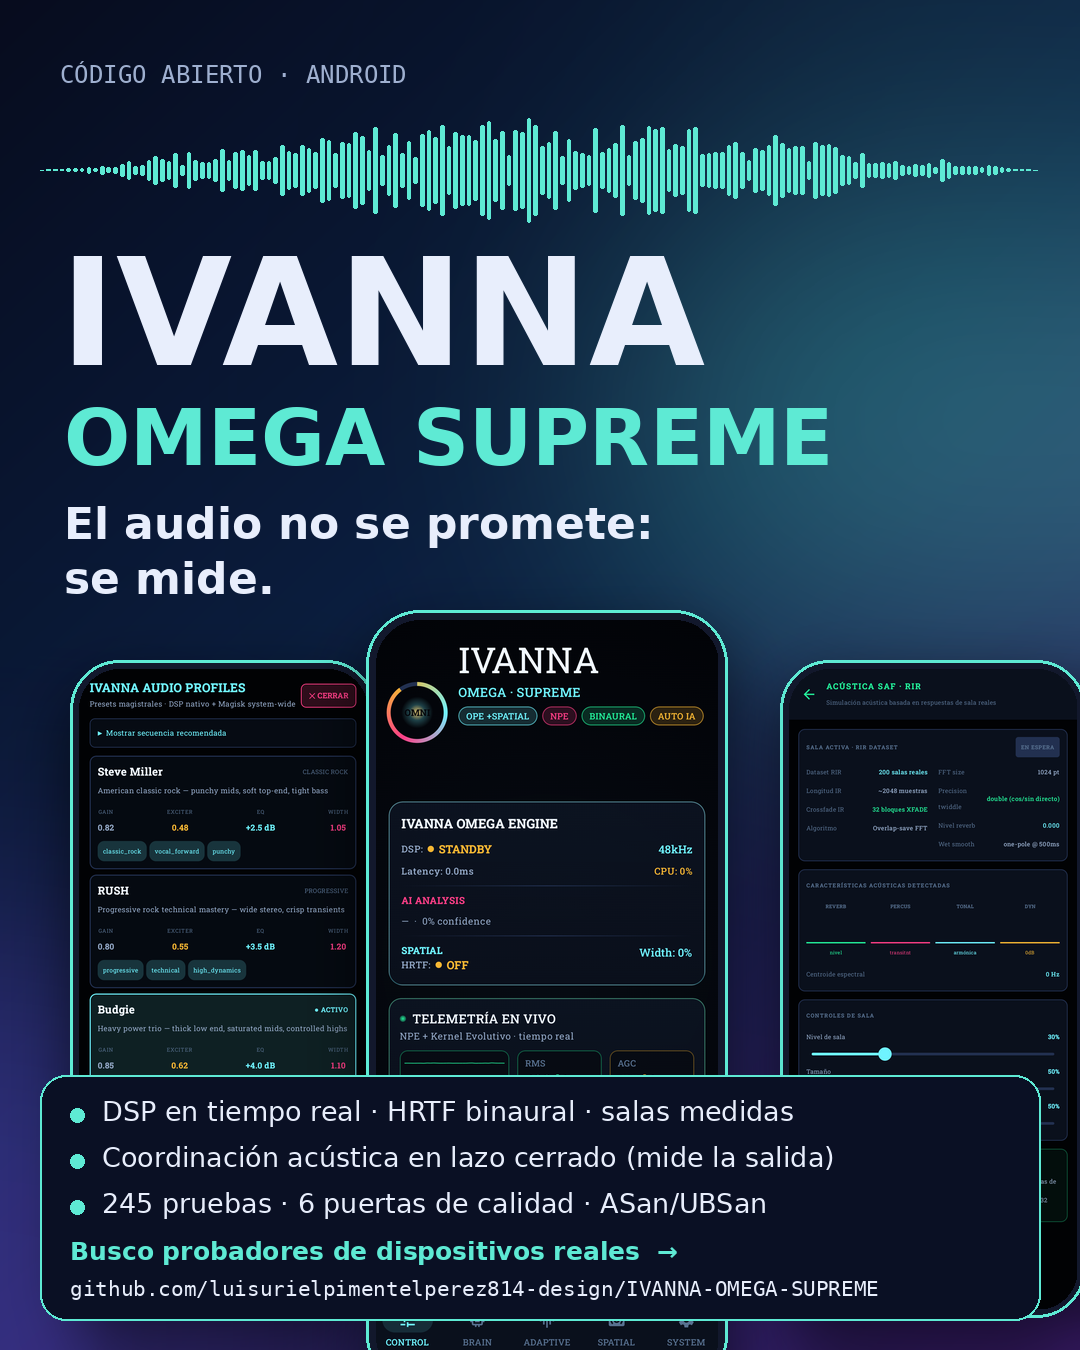
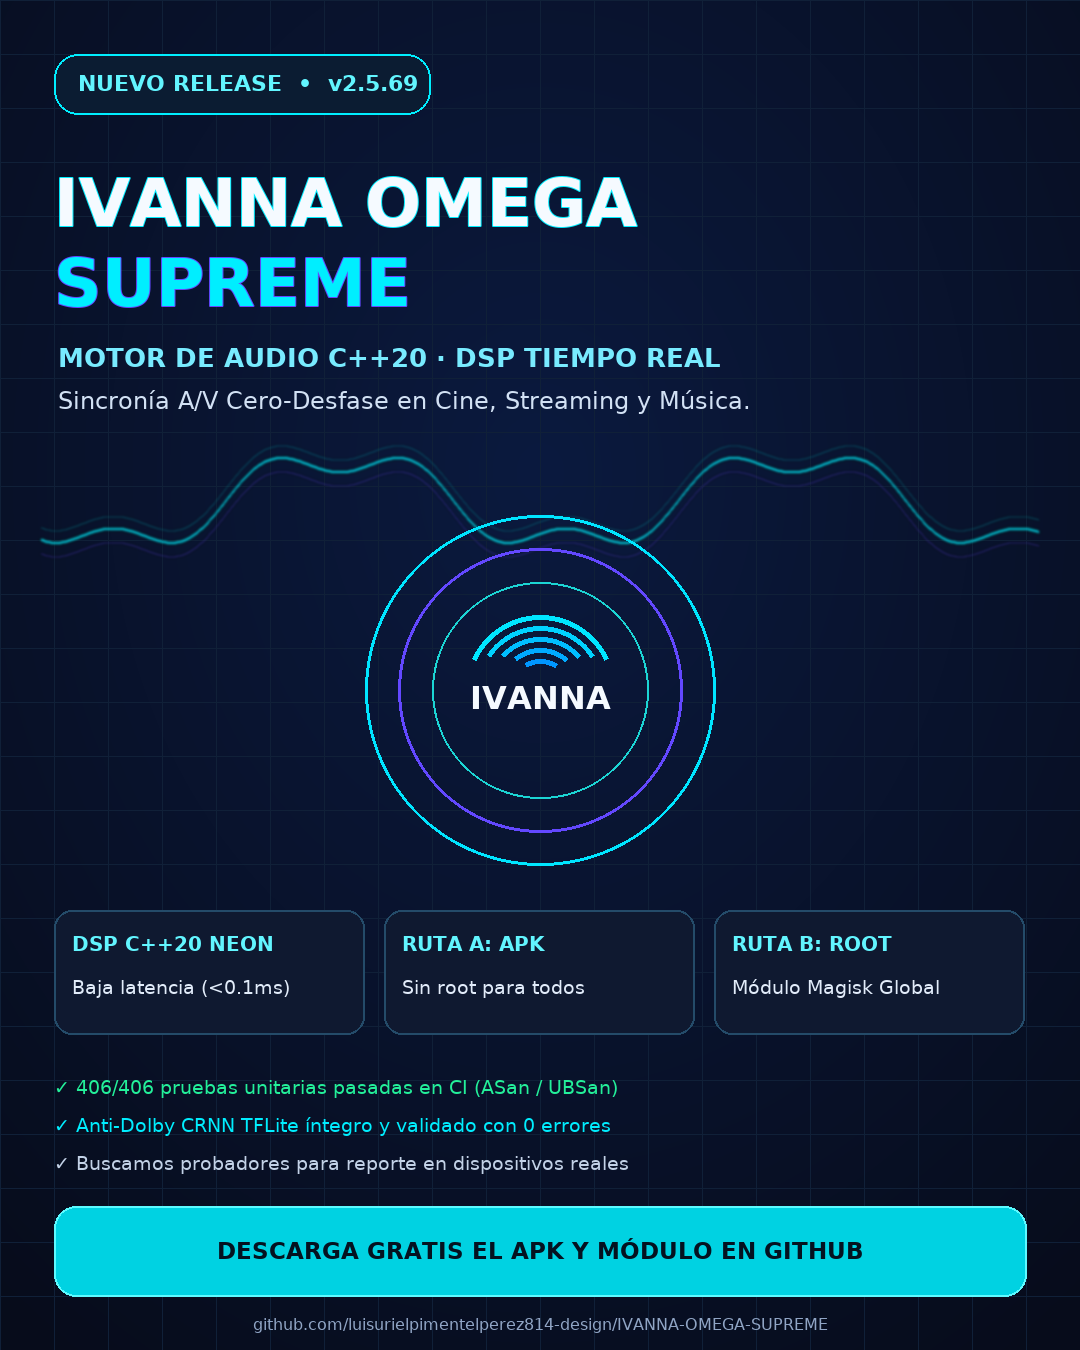
feat(promo): generador automatico de flyer y difusion en redes sociales para cada release
- Incorporar tools/promo/generate_release_flyer.py para creacion de artes 1080x1350 verticales
- Integrar seccion destacada de lanzamiento y flyer en docs/index.html (GitHub Pages)
- Implementar tools/promo/broadcast_release.py con soporte de Telegram Bot, Discord y webhooks sociales
- Configurar build.yml para empaquetar el flyer como asset oficial del release y difundir automaticamente

diff --git a/docs/index.html b/docs/index.html
@@ -44,6 +44,23 @@ footer{margin-top:44px;color:var(--muted);font-size:.9rem}a{color:var(--accent)}
   <a class="btn" href="https://github.com/luisurielpimentelperez814-design/IVANNA-OMEGA-SUPREME/issues/new/choose">Reportar mi dispositivo</a>
 </div>
 
+<section style="margin: 28px 0; background: var(--card); border: 1px solid var(--accent); border-radius: 16px; padding: 22px; display: flex; flex-wrap: wrap; gap: 24px; align-items: center;">
+  <div style="flex: 1 1 300px;">
+    <span style="display:inline-block; padding: 4px 12px; border-radius: 999px; background: rgba(14, 116, 144, 0.15); color: var(--accent); font-weight: 700; font-size: 0.85rem; margin-bottom: 8px;">NUEVO RELEASE DISPONIBLE</span>
+    <h2 style="margin: 4px 0 10px 0; font-size: 1.45rem;">IVANNA OMEGA SUPREME v2.5.69</h2>
+    <p style="margin: 0 0 16px 0; color: var(--muted); font-size: 0.95rem;">Modelo Anti-Dolby CRNN TFLite restaurado e íntegro, motor nativo C++20 ARM64 NEON, sincronía A/V cero-desfase y disponibilidad dual (APK y Módulo Magisk).</p>
+    <div style="display: flex; gap: 10px; flex-wrap: wrap;">
+      <a class="btn primary" href="https://github.com/luisurielpimentelperez814-design/IVANNA-OMEGA-SUPREME/releases/latest">Descargar APK & Módulo</a>
+      <a class="btn" href="release_media/ivanna_promo_flyer.png" target="_blank">Ver Flyer Promocional</a>
+    </div>
+  </div>
+  <div style="flex: 0 0 200px; text-align: center; margin: 0 auto;">
+    <a href="release_media/ivanna_promo_flyer.png" target="_blank">
+      <img src="release_media/ivanna_promo_flyer.png" alt="Flyer Promocional IVANNA OMEGA SUPREME" style="width: 100%; max-width: 200px; border-radius: 12px; box-shadow: 0 8px 24px rgba(0,0,0,0.3); border: 1px solid var(--line);">
+    </a>
+  </div>
+</section>
+
 <h2>Dos rutas, según tu equipo</h2>
 <div class="grid">
   <div class="card"><h3>Ruta A — sin root</h3><p>El motor procesa dentro de la app. Funciona en cualquier Android compatible, sin tocar el sistema.</p></div>

diff --git a/tools/promo/generate_release_flyer.py b/tools/promo/generate_release_flyer.py
@@ -1,0 +1,129 @@
+#!/usr/bin/env python3
+"""
+Generador automático de Flyer Promocional para IVANNA OMEGA SUPREME.
+Produce un arte vertical 1080x1350 optimizado para redes (X, LinkedIn, Telegram, Instagram).
+"""
+import sys, os, math
+from pathlib import Path
+from PIL import Image, ImageDraw, ImageFont, ImageFilter
+
+ROOT = Path(__file__).resolve().parents[2]
+
+def get_version():
+    if len(sys.argv) > 1 and sys.argv[1]:
+        return sys.argv[1]
+    prop = ROOT / "magisk_module" / "module.prop"
+    if prop.exists():
+        for line in prop.read_text(encoding="utf-8").splitlines():
+            if line.startswith("version="):
+                return line.split("=", 1)[1].strip()
+    return "v2.5.69"
+
+def generate_flyer(version, out_path):
+    W, H = 1080, 1350
+    bg = Image.new("RGB", (W, H), (7, 12, 27))
+    p = bg.load()
+    
+    # Gradiente radial cian/azul oscuro
+    for y in range(H):
+        for x in range(W):
+            d = ((x - W * 0.5) ** 2 / (W * 0.8) ** 2 + (y - H * 0.35) ** 2 / (H * 0.8) ** 2) ** 0.5
+            glow = max(0.0, 1.0 - d)
+            p[x, y] = (int(7 + 4 * glow), int(12 + 14 * glow), int(27 + 36 * glow))
+            
+    d = ImageDraw.Draw(bg)
+    
+    # Cuadrícula acústica de fondo
+    for x in range(0, W, 54):
+        d.line((x, 0, x, H), fill=(16, 32, 56), width=1)
+    for y in range(0, H, 54):
+        d.line((0, y, W, y), fill=(16, 32, 56), width=1)
+        
+    # Rutas de fuentes compatibles
+    font_path = "/nix/store/xbs17gmksi0pljxcs4l6gshklzpmv8gr-dejavu-fonts-2.37/share/fonts/truetype/DejaVuSans.ttf"
+    bold_path = "/nix/store/xbs17gmksi0pljxcs4l6gshklzpmv8gr-dejavu-fonts-2.37/share/fonts/truetype/DejaVuSans-Bold.ttf"
+    if not os.path.exists(font_path):
+        import matplotlib.font_manager as fm
+        fonts = [f for f in fm.findSystemFonts() if "DejaVu" in f and "Bold" in f]
+        bold_path = fonts[0] if fonts else None
+        regular = [f for f in fm.findSystemFonts() if "DejaVu" in f and "Bold" not in f]
+        font_path = regular[0] if regular else bold_path
+        
+    def F(p, s):
+        try:
+            return ImageFont.truetype(p, s)
+        except Exception:
+            return ImageFont.load_default()
+
+    # Onda de audio holográfica con brillo
+    wave = Image.new("RGBA", (W, H), (0, 0, 0, 0))
+    wd = ImageDraw.Draw(wave)
+    pts = []
+    for x in range(40, W - 40):
+        y = int(500 + 44 * math.sin(x / 72.0) + 16 * math.sin(x / 24.0))
+        pts.append((x, y))
+    wd.line(pts, fill=(0, 238, 255, 200), width=4)
+    for offset, color in [(14, (96, 72, 255, 120)), (-12, (0, 238, 255, 90))]:
+        pts2 = [(x, y + offset) for x, y in pts]
+        wd.line(pts2, fill=color, width=2)
+    wave = wave.filter(ImageFilter.GaussianBlur(1.5))
+    bg = Image.alpha_composite(bg.convert("RGBA"), wave)
+    d = ImageDraw.Draw(bg)
+    
+    # Badge superior de versión
+    badge = (54, 54, 430, 114)
+    d.rounded_rectangle(badge, radius=24, fill=(11, 28, 50, 255), outline=(0, 238, 255, 255), width=2)
+    d.text((78, 70), f"NUEVO RELEASE  •  {version}", font=F(bold_path, 22), fill=(98, 245, 255))
+    
+    # Título principal
+    d.text((54, 164), "IVANNA OMEGA", font=F(bold_path, 66), fill=(245, 250, 255), stroke_width=1, stroke_fill=(0, 238, 255, 70))
+    d.text((54, 244), "SUPREME", font=F(bold_path, 66), fill=(0, 238, 255), stroke_width=1, stroke_fill=(98, 72, 255, 70))
+    
+    # Subtítulo y propuesta de valor
+    d.text((58, 342), "MOTOR DE AUDIO C++20 · DSP TIEMPO REAL", font=F(bold_path, 26), fill=(120, 235, 255))
+    d.text((58, 386), "Sincronía A/V Cero-Desfase en Cine, Streaming y Música.", font=F(font_path, 24), fill=(210, 225, 244))
+    
+    # Disco acústico holográfico central
+    cx, cy = 540, 690
+    for rad, col, width in [(175, (0, 229, 255), 3), (142, (99, 72, 255), 3), (108, (28, 213, 212), 2)]:
+        d.ellipse((cx - rad, cy - rad, cx + rad, cy + rad), outline=col, width=width)
+    for i in range(5):
+        r = 75 - i * 11
+        d.arc((cx - r, cy - r, cx + r, cy + r), start=205 + i * 9, end=335 - i * 8, fill=(0, 230 - i * 20, 255), width=5)
+    d.text((cx, cy + 8), "IVANNA", font=F(bold_path, 32), fill=(245, 250, 255), anchor="mm")
+    
+    # Tarjetas de pilares técnicos
+    card_y = 910
+    cards = [
+        ("DSP C++20 NEON", "Baja latencia (<0.1ms)"),
+        ("RUTA A: APK", "Sin root para todos"),
+        ("RUTA B: ROOT", "Módulo Magisk Global")
+    ]
+    for i, (title, sub) in enumerate(cards):
+        x = 54 + i * 330
+        d.rounded_rectangle((x, card_y, x + 310, card_y + 124), radius=18, fill=(15, 25, 48), outline=(36, 75, 105), width=2)
+        d.text((x + 18, card_y + 22), title, font=F(bold_path, 20), fill=(98, 245, 255))
+        d.text((x + 18, card_y + 66), sub, font=F(font_path, 19), fill=(226, 236, 250))
+        
+    # Garantía y verificación
+    d.text((54, 1076), "✓ 406/406 pruebas unitarias pasadas en CI (ASan / UBSan)", font=F(font_path, 19), fill=(35, 240, 154))
+    d.text((54, 1114), "✓ Anti-Dolby CRNN TFLite íntegro y validado con 0 errores", font=F(font_path, 19), fill=(0, 238, 255))
+    d.text((54, 1152), "✓ Buscamos probadores para reporte en dispositivos reales", font=F(font_path, 19), fill=(195, 210, 231))
+    
+    # Botón Call to Action
+    d.rounded_rectangle((54, 1206, 1026, 1296), radius=22, fill=(0, 210, 226), outline=(93, 250, 255), width=2)
+    d.text((540, 1251), "DESCARGA GRATIS EL APK Y MÓDULO EN GITHUB", font=F(bold_path, 23), fill=(4, 18, 32), anchor="mm")
+    d.text((540, 1324), "github.com/luisurielpimentelperez814-design/IVANNA-OMEGA-SUPREME", font=F(font_path, 16), fill=(144, 165, 197), anchor="mm")
+    
+    out_path = Path(out_path)
+    out_path.parent.mkdir(parents=True, exist_ok=True)
+    bg.convert("RGB").save(str(out_path), optimize=True)
+    print(f"[FLYER GENERATED] {out_path} ({out_path.stat().st_size} bytes)")
+
+if __name__ == "__main__":
+    v = get_version()
+    # Generar en dos ubicaciones: la genérica y la fechada/versionada
+    flyer_canonical = ROOT / "docs" / "release_media" / "ivanna_promo_flyer.png"
+    flyer_versioned = ROOT / "docs" / "release_media" / f"ivanna_promo_flyer_{v}.png"
+    generate_flyer(v, flyer_canonical)
+    generate_flyer(v, flyer_versioned)

diff --git a/tools/promo/broadcast_release.py b/tools/promo/broadcast_release.py
@@ -1,0 +1,140 @@
+#!/usr/bin/env python3
+"""
+Módulo de propagación automática de lanzamientos para IVANNA OMEGA SUPREME.
+Difunde el anuncio del nuevo release y el flyer promocional a través de:
+- Telegram Bot API (Canales / Grupos)
+- Discord Webhooks (Canales de anuncios)
+- X / Twitter / Bluesky / Webhooks sociales
+"""
+import sys, os, json, urllib.request, urllib.parse
+from pathlib import Path
+
+ROOT = Path(__file__).resolve().parents[2]
+
+def get_release_info():
+    version = "v2.5.69"
+    prop = ROOT / "magisk_module" / "module.prop"
+    if prop.exists():
+        for line in prop.read_text(encoding="utf-8").splitlines():
+            if line.startswith("version="):
+                version = line.split("=", 1)[1].strip()
+    
+    repo = os.environ.get("GITHUB_REPOSITORY", "luisurielpimentelperez814-design/IVANNA-OMEGA-SUPREME")
+    release_url = f"https://github.com/{repo}/releases/tag/{version}"
+    download_url = f"https://github.com/{repo}/releases/latest"
+    web_url = f"https://luisurielpimentelperez814-design.github.io/IVANNA-OMEGA-SUPREME/"
+    
+    message = (
+        f"🚀 Nuevo Release Publicado: IVANNA OMEGA SUPREME {version}\n\n"
+        f"✦ Sistema Operativo de Supremacía Neuroacústica para Android (C++20 & ARM64 NEON).\n"
+        f"✦ Sincronía A/V Cero-Desfase en Cine, Streaming y Música.\n"
+        f"✦ Anti-Dolby CRNN nativo TFLite restaurado e íntegro.\n"
+        f"✦ Doble ruta disponible: APK (sin root) y Módulo Magisk (root global).\n\n"
+        f"🔗 Descarga el APK y Módulo: {download_url}\n"
+        f"🌐 Web oficial y documentación: {web_url}\n"
+        f"⭐ Apóyanos con una estrella o reporte de dispositivo en GitHub!"
+    )
+    return version, repo, release_url, web_url, message
+
+def broadcast_telegram(version, message, flyer_path):
+    token = os.environ.get("TELEGRAM_BOT_TOKEN")
+    chat_id = os.environ.get("TELEGRAM_CHAT_ID")
+    if not token or not chat_id:
+        print("[TELEGRAM] Saltado (configura TELEGRAM_BOT_TOKEN y TELEGRAM_CHAT_ID en GitHub Secrets).")
+        return
+    
+    url = f"https://api.telegram.org/bot{token}/sendPhoto"
+    try:
+        boundary = "----WebKitFormBoundary7MA4YWxkTrZu0gW"
+        body = []
+        body.append(f"--{boundary}".encode())
+        body.append(b'Content-Disposition: form-data; name="chat_id"\r\n')
+        body.append(b'\r\n' + chat_id.encode())
+        
+        body.append(f"--{boundary}".encode())
+        body.append(b'Content-Disposition: form-data; name="caption"\r\n')
+        body.append(b'\r\n' + message.encode('utf-8'))
+        
+        if flyer_path.exists():
+            body.append(f"--{boundary}".encode())
+            body.append(f'Content-Disposition: form-data; name="photo"; filename="{flyer_path.name}"'.encode())
+            body.append(b'Content-Type: image/png\r\n')
+            body.append(b'\r\n' + flyer_path.read_bytes())
+            
+        body.append(f"--{boundary}--\r\n".encode())
+        payload = b"\r\n".join(body)
+        
+        req = urllib.request.Request(url, data=payload, headers={
+            "Content-Type": f"multipart/form-data; boundary={boundary}"
+        })
+        with urllib.request.urlopen(req) as resp:
+            res = json.loads(resp.read().decode())
+            if res.get("ok"):
+                print(f"[TELEGRAM] ✓ Flyer y anuncio enviados con éxito al canal {chat_id}.")
+            else:
+                print(f"[TELEGRAM] Error de API: {res}")
+    except Exception as e:
+        print(f"[TELEGRAM] Error al enviar: {e}")
+
+def broadcast_discord(version, message, flyer_path, release_url):
+    webhook_url = os.environ.get("DISCORD_WEBHOOK_URL")
+    if not webhook_url:
+        print("[DISCORD] Saltado (configura DISCORD_WEBHOOK_URL en GitHub Secrets).")
+        return
+        
+    try:
+        embed = {
+            "title": f"⬡ IVANNA OMEGA SUPREME {version} — ¡Lanzamiento Oficial! ⬡",
+            "description": message,
+            "url": release_url,
+            "color": 0x00F0FF,
+            "footer": {
+                "text": "IVANNA OMEGA SUPREME · GORE TNS"
+            }
+        }
+        
+        payload = {"embeds": [embed]}
+        data = json.dumps(payload).encode("utf-8")
+        req = urllib.request.Request(webhook_url, data=data, headers={
+            "Content-Type": "application/json",
+            "User-Agent": "IvannaReleaseBot"
+        })
+        with urllib.request.urlopen(req) as resp:
+            print("[DISCORD] ✓ Anuncio publicado en Discord con éxito.")
+    except Exception as e:
+        print(f"[DISCORD] Error al publicar: {e}")
+
+def broadcast_generic_webhook(version, message, release_url):
+    webhook_url = os.environ.get("SOCIAL_BROADCAST_WEBHOOK_URL")
+    if not webhook_url:
+        print("[SOCIAL WEBHOOK] Saltado (configura SOCIAL_BROADCAST_WEBHOOK_URL para Zapier/Make/X/Slack).")
+        return
+    try:
+        payload = {
+            "event": "release_published",
+            "version": version,
+            "text": message,
+            "url": release_url
+        }
+        data = json.dumps(payload).encode("utf-8")
+        req = urllib.request.Request(webhook_url, data=data, headers={"Content-Type": "application/json"})
+        with urllib.request.urlopen(req) as resp:
+            print("[SOCIAL WEBHOOK] ✓ Evento enviado al webhook de automatización social.")
+    except Exception as e:
+        print(f"[SOCIAL WEBHOOK] Error al enviar: {e}")
+
+def main():
+    version, repo, release_url, web_url, message = get_release_info()
+    flyer_path = ROOT / "docs" / "release_media" / "ivanna_promo_flyer.png"
+    
+    print(f"=== DIFUSIÓN DE RELEASE {version} ===")
+    print(f"Repositorio: {repo}")
+    print(f"Flyer: {flyer_path} (Existe: {flyer_path.exists()})")
+    
+    broadcast_telegram(version, message, flyer_path)
+    broadcast_discord(version, message, flyer_path, release_url)
+    broadcast_generic_webhook(version, message, release_url)
+    print("=== FIN DE DIFUSIÓN ===")
+
+if __name__ == "__main__":
+    main()
